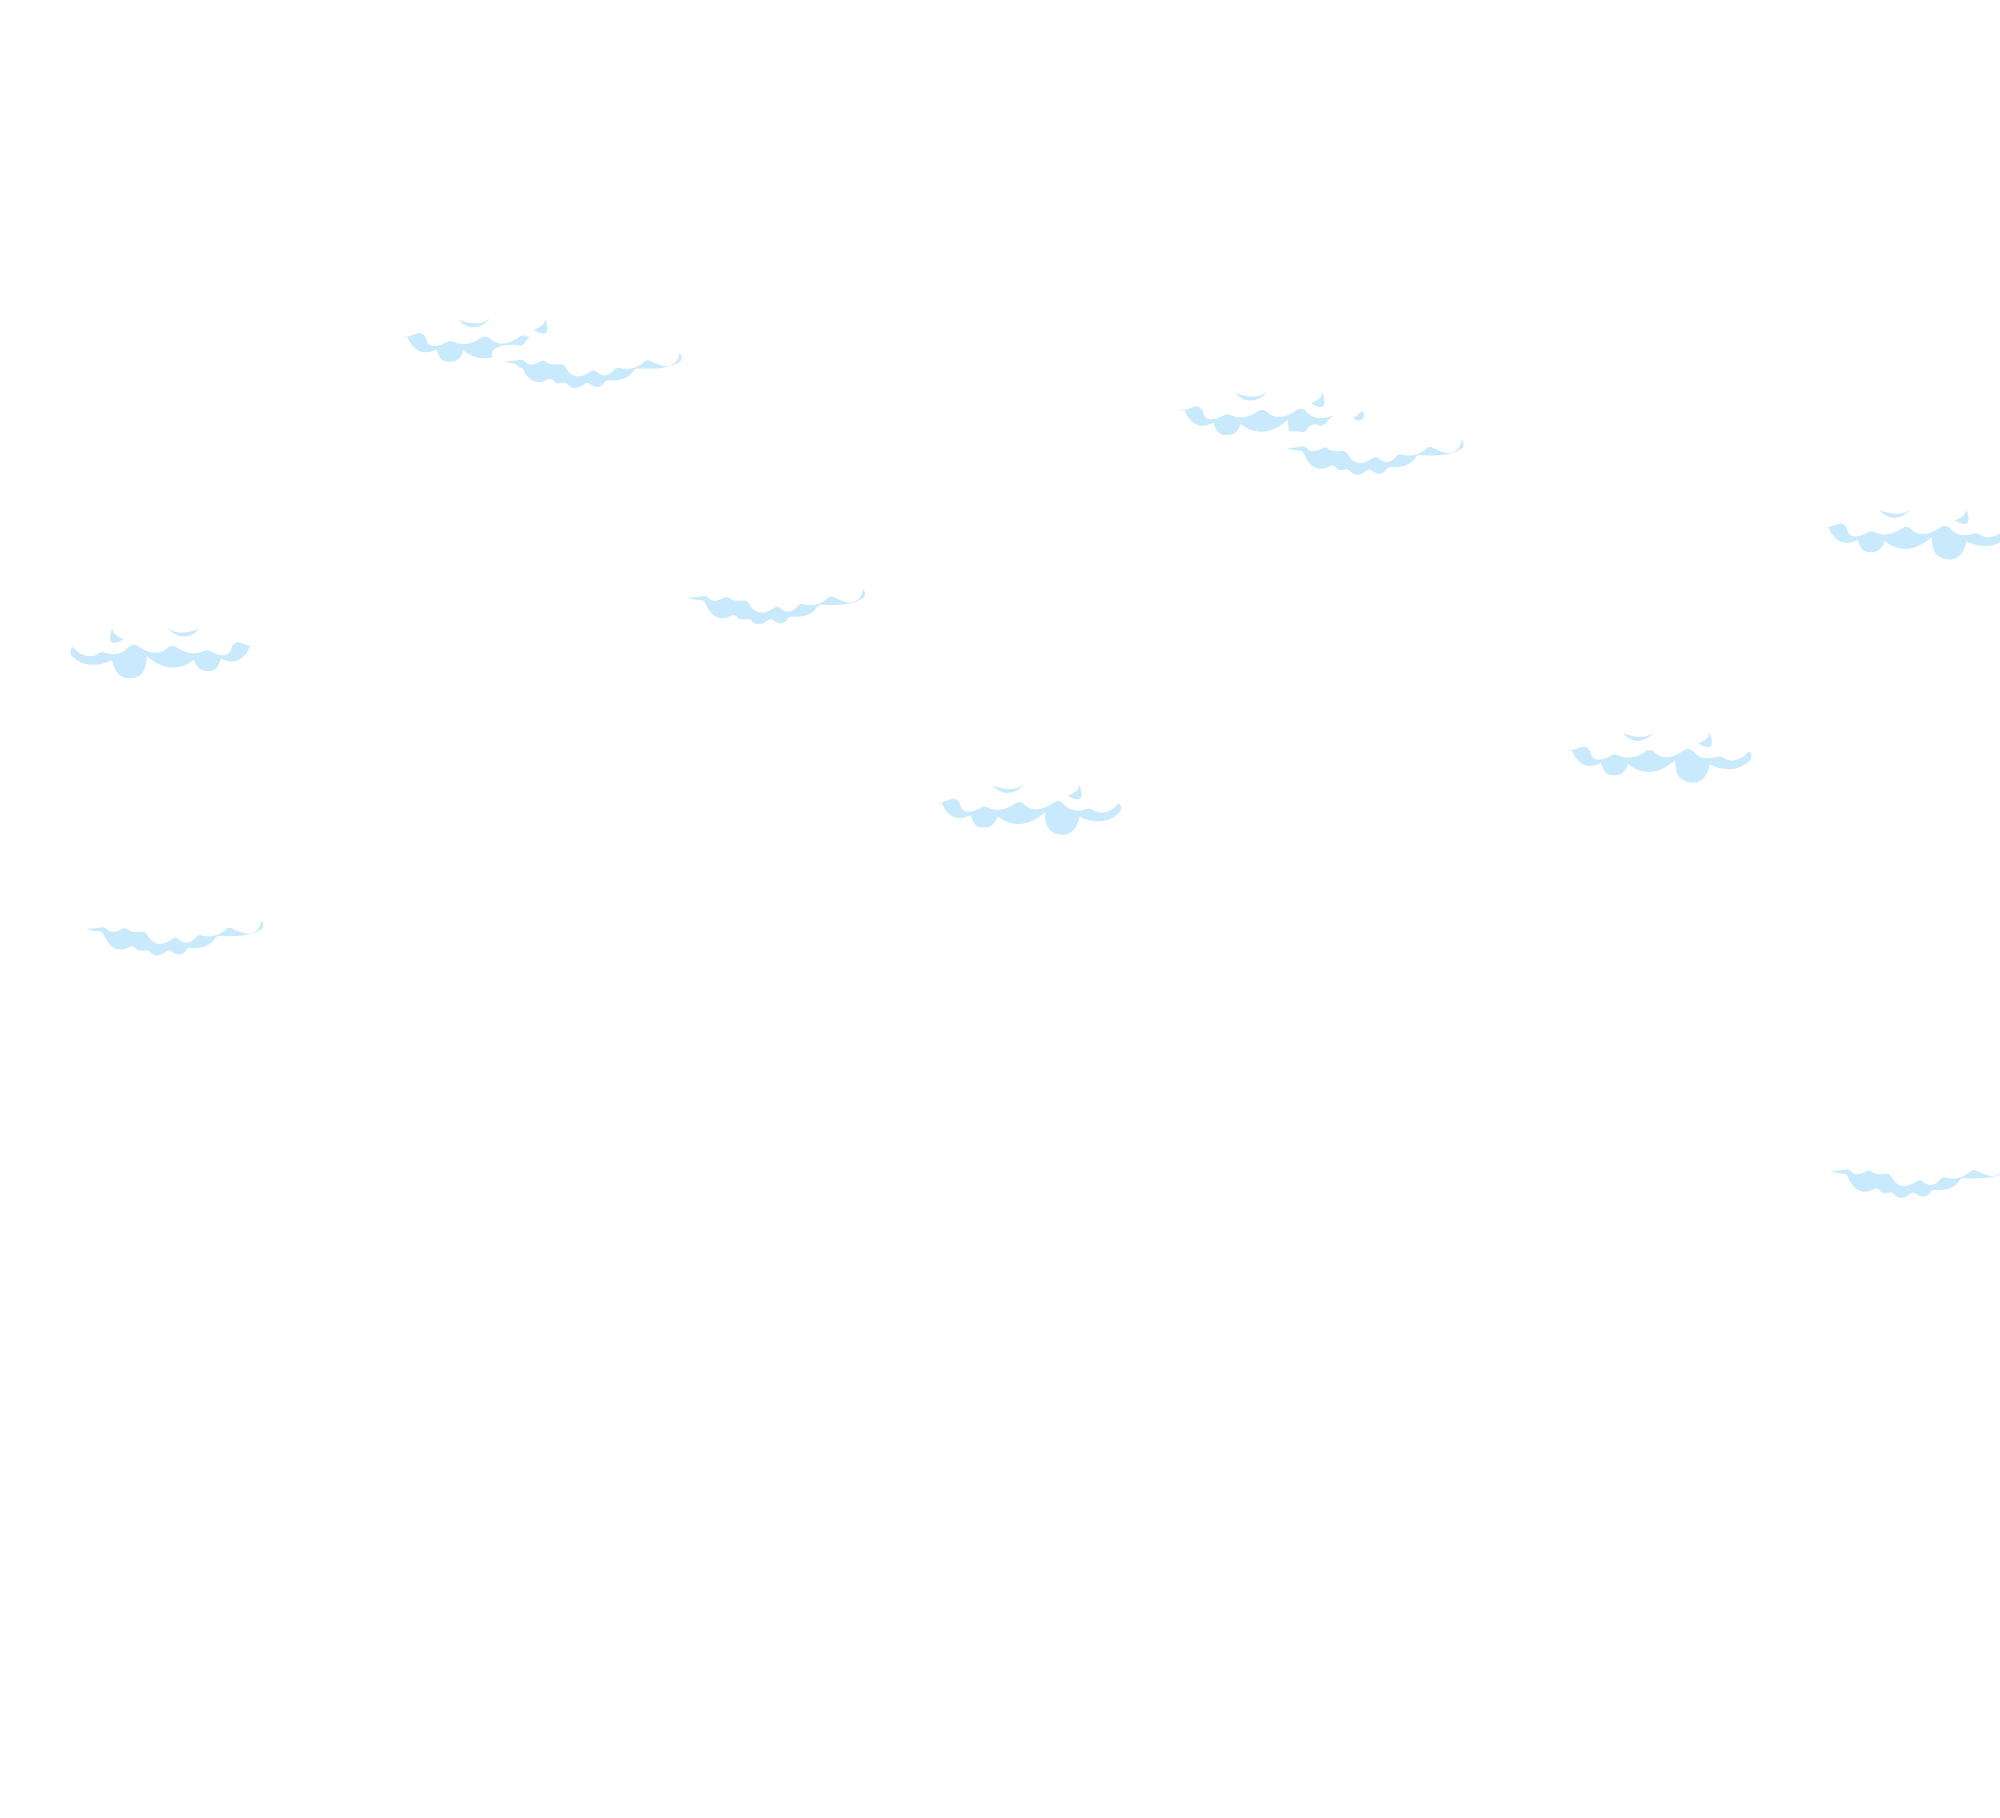
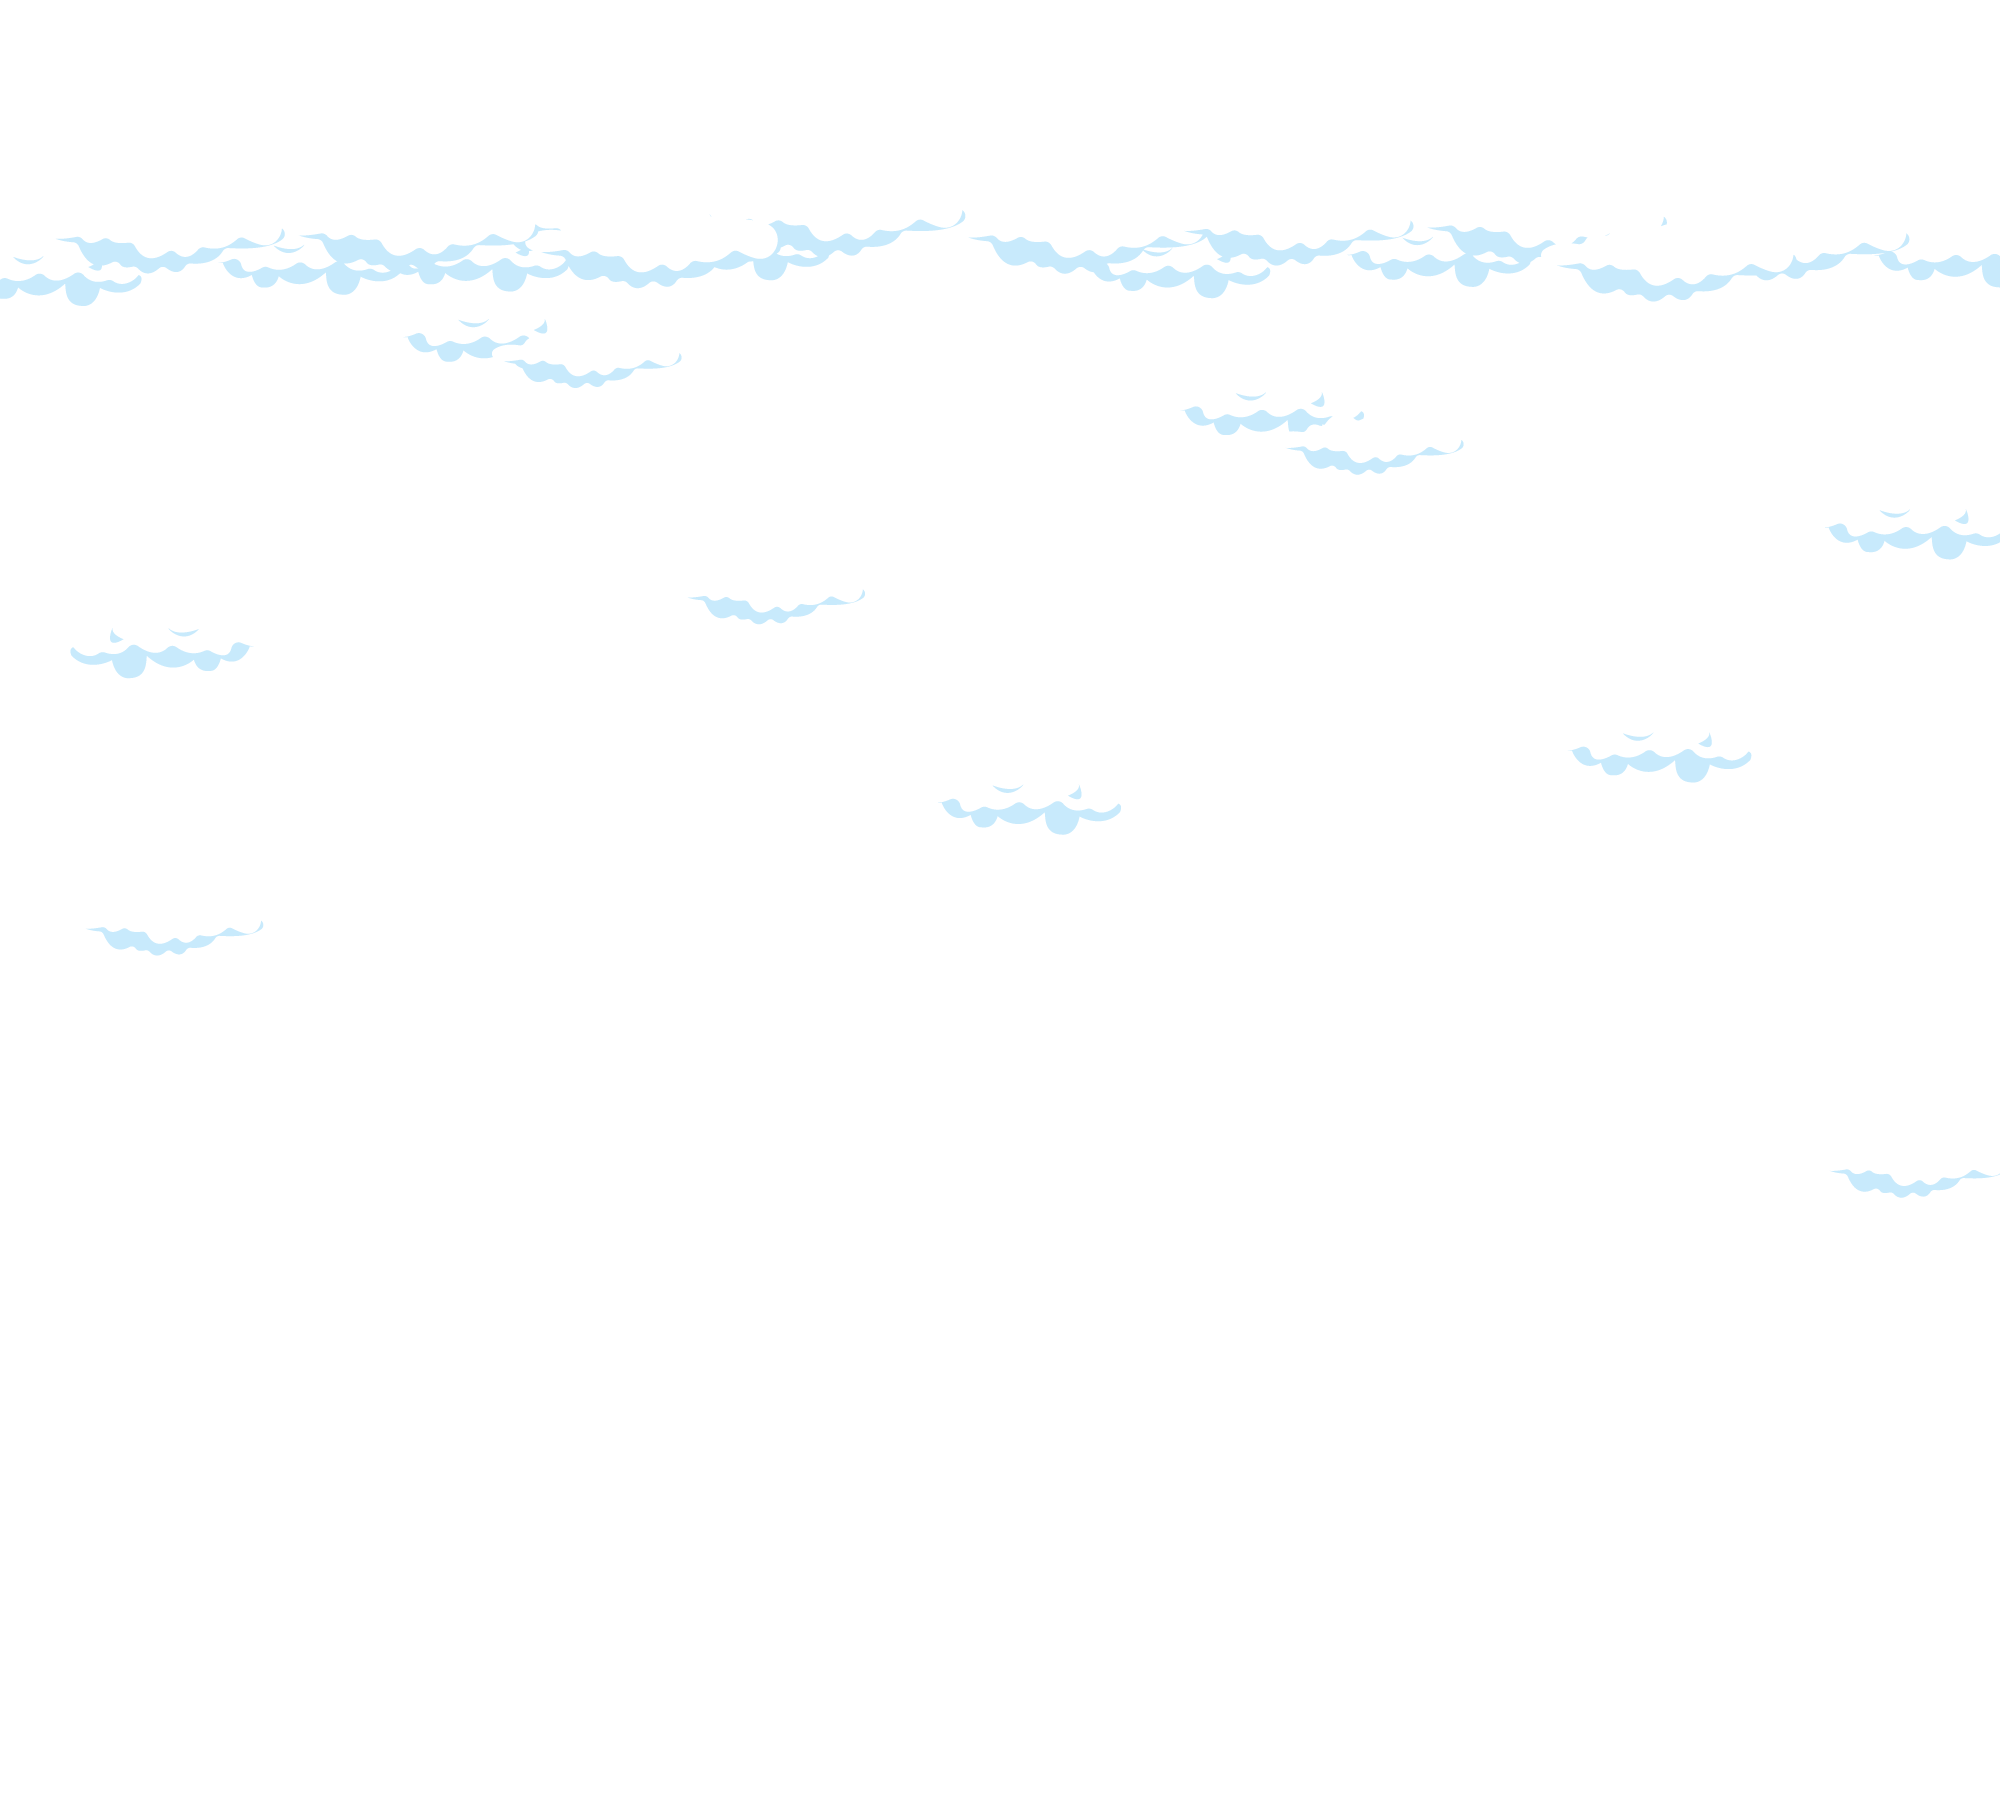
interaction!
interaction!

diff --git a/perkies.html b/perkies.html
@@ -60,7 +60,7 @@
     </style>
       <!-- start header -->
       <!-- start header -->
-      <header class="" style="position: absolute;">
+      <header style="z-index: 5000;" class="" style="position: absolute;">
           <!-- start navigation -->
           <nav class="navbar navbar-default bootsnav header-light bg-transparent nav-box-width white-link on no-full">
               <div class="container nav-header-container">
@@ -104,10 +104,13 @@
     <!-- ***********start SUBSECTION (DETAILS) ****************** -->
     <!-- ***************************************************** -->
     <!-- ***************************************************** -->
-      <section id="stride-head" class="parallax bg-rose" data-stellar-background-ratio="0.5" style="background-image: url(images/perkie_city_hero.png); visibility: visible; height: 275vh;">
-      <div class="container-fluid" style="position: absolute; padding: 0; width: 100%; top: 0;">
-        <img src="images/justclouds2.png">
+      <section id="stride-head" class="parallax bg-white" data-stellar-background-ratio="0.5" style="background-image: url(images/justsky2.png); visibility: visible; height: 350vh;">
+      <div class="container-fluid" style="z-index: 3000; position: absolute; padding: 0; width: 100%; top: 0;">
+        <img style="" src="images/justclouds2.png">
       </div>
+
+      <div id="text-test" class="parallax bg-transparent" data-stellar-background-ratio="0.6" style="z-index: 3000; background-image: url(images/justbuildings.png); visibility: visible; height: 260vh; position: absolute; padding: 0; width: 100%; bottom: 0;"></div>
+      <div id="text-test" class="parallax bg-transparent" data-stellar-background-ratio="0.4" style="z-index: 100; background-image: url(images/justtext.png); visibility: visible; height: 260vh; position: absolute; padding: 0; width: 100%; top: 0;"></div>
   </section>
 
     <!-- ***************************************************** -->
